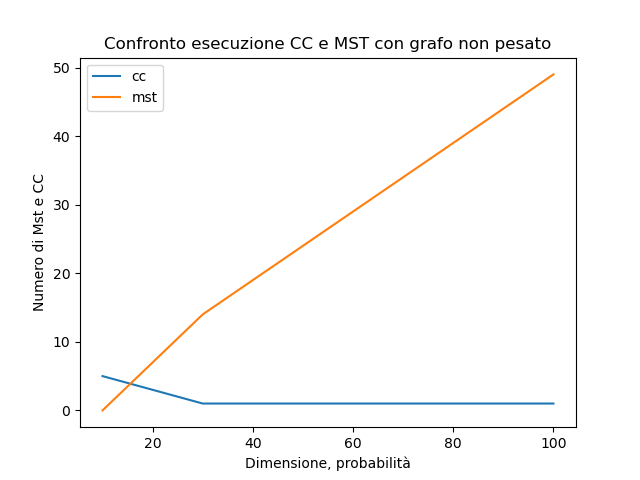
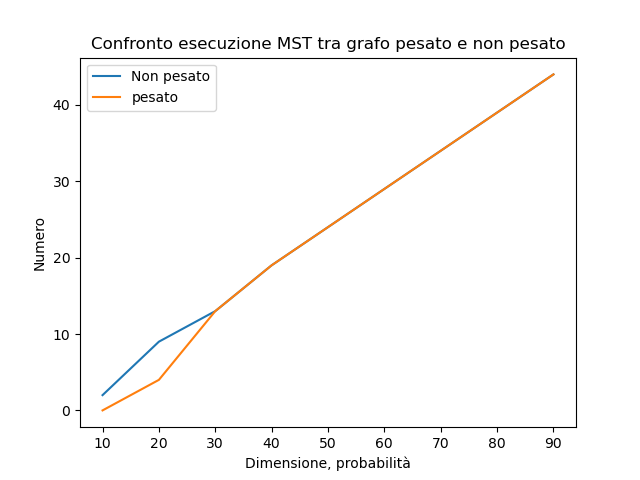
test update

diff --git a/src/test.py b/src/test.py
@@ -30,7 +30,7 @@ def test():
     n = 5  # numero iniziale di nodi 5
     p = 10  # probabilità di archi iniziale 10
 
-    for i in range(0, 10):  # dovrebbe essere 13
+    for i in range(1, 10):  # dovrebbe essere 13
         g = Graph(n)
         g.populate_adj(p)
         comp = cc_test(g)
@@ -54,31 +54,31 @@ def test():
 
     x = np.arange(1, len(mst_results_time) + 1)*10
     plot_1 = plt.figure(1)
-    plt.plot(x, cc_results)
     plt.plot(x, mst_results)
+    plt.plot(x, mst_results_weighted)
     plt.xlabel("Dimensione, probabilità")
-    plt.ylabel("Numero di Mst e CC")
-    plt.legend(["cc", "mst"])
-    plt.title("Confronto esecuzione CC e MST con grafo non pesato")
+    plt.ylabel("Numero")
+    plt.legend(["Non pesato", "pesato"])
+    plt.title("Confronto esecuzione MST tra grafo pesato e non pesato")
 
     plot_2 = plt.figure(2)
+    plt.plot(x, cc_results)
+    plt.plot(x, cc_results_weighted)
+    plt.xlabel("Dimensione, probabilità")
+    plt.ylabel("Componenti connesse")
+    plt.legend(["Non pesato", "Pesato"])
+    plt.title("Confronto esecuzione CC tra grafo pesato e non pesato")
+
+    plot_3 = plt.figure(3)
     plt.plot(x, cc_results_weighted)
     plt.plot(x, mst_results_weighted)
     plt.xlabel("Dimensione, probabilità")
-    plt.ylabel("Numero di MST e Componenti connesse")
-    plt.legend(["CC", "MST"])
-    plt.title("Confronto esecuzione CC e MST con grafo pesato")
-
-    plot_3 = plt.figure(3)
-    plt.plot(x, cc_results_time)
-    plt.plot(x, mst_results_weighted)
-    plt.xlabel("Dimensione, probabilità")
     plt.ylabel("Tempo in s")
-    plt.legend(["Componente connesse", "mst"])
-    plt.title("Confronto temporale esecuzione CC e MST")
+    plt.legend(["CC", "MST"])
+    plt.title("Confronto esecuzione MST e CC in grafo pesato")
 
     plot_1.savefig('img/cc_mst.png')
-    plot_2.savefig('img/cc_mst_w.png')
+    plot_2.savefig('img/cc.png')
     plot_3.savefig('img/time.png')
     plt.clf()
 
